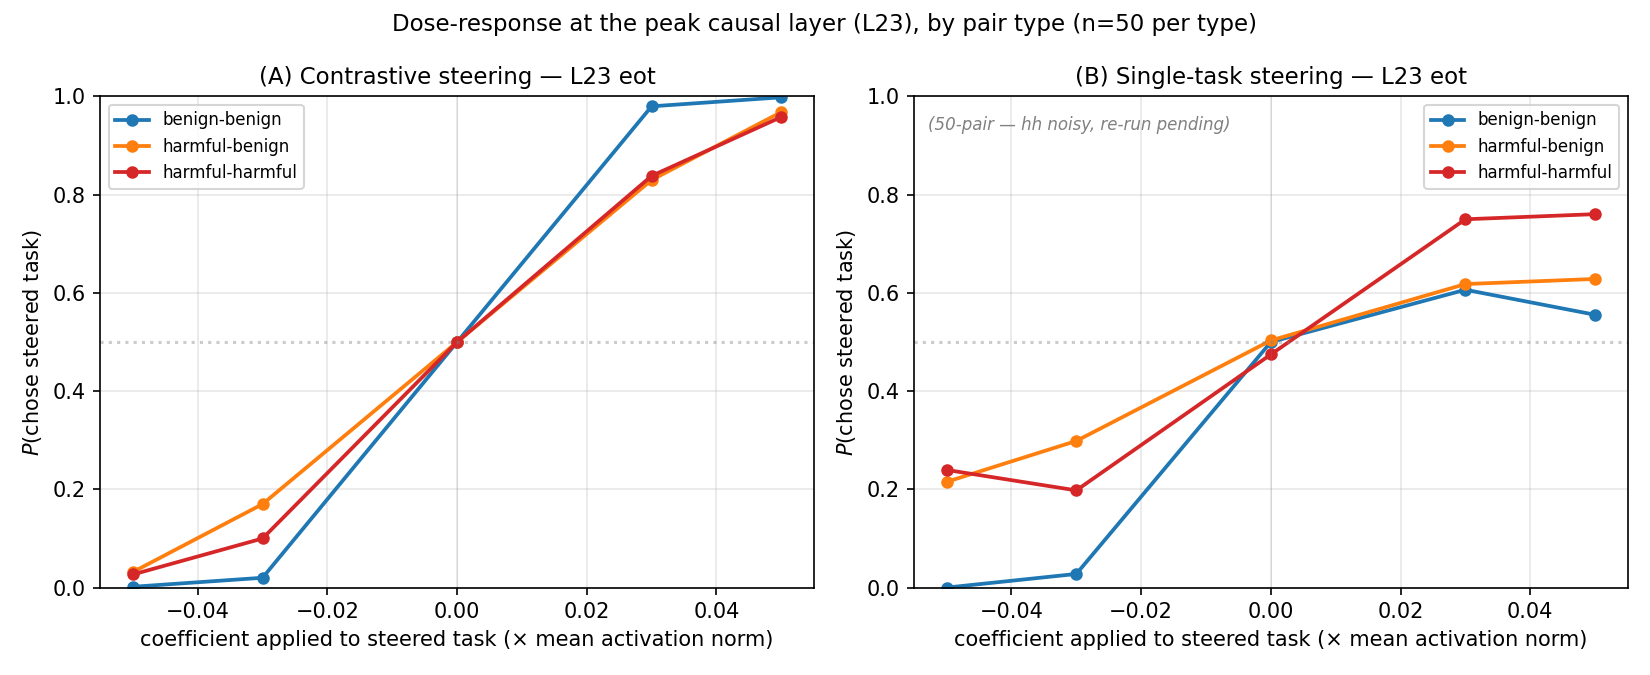
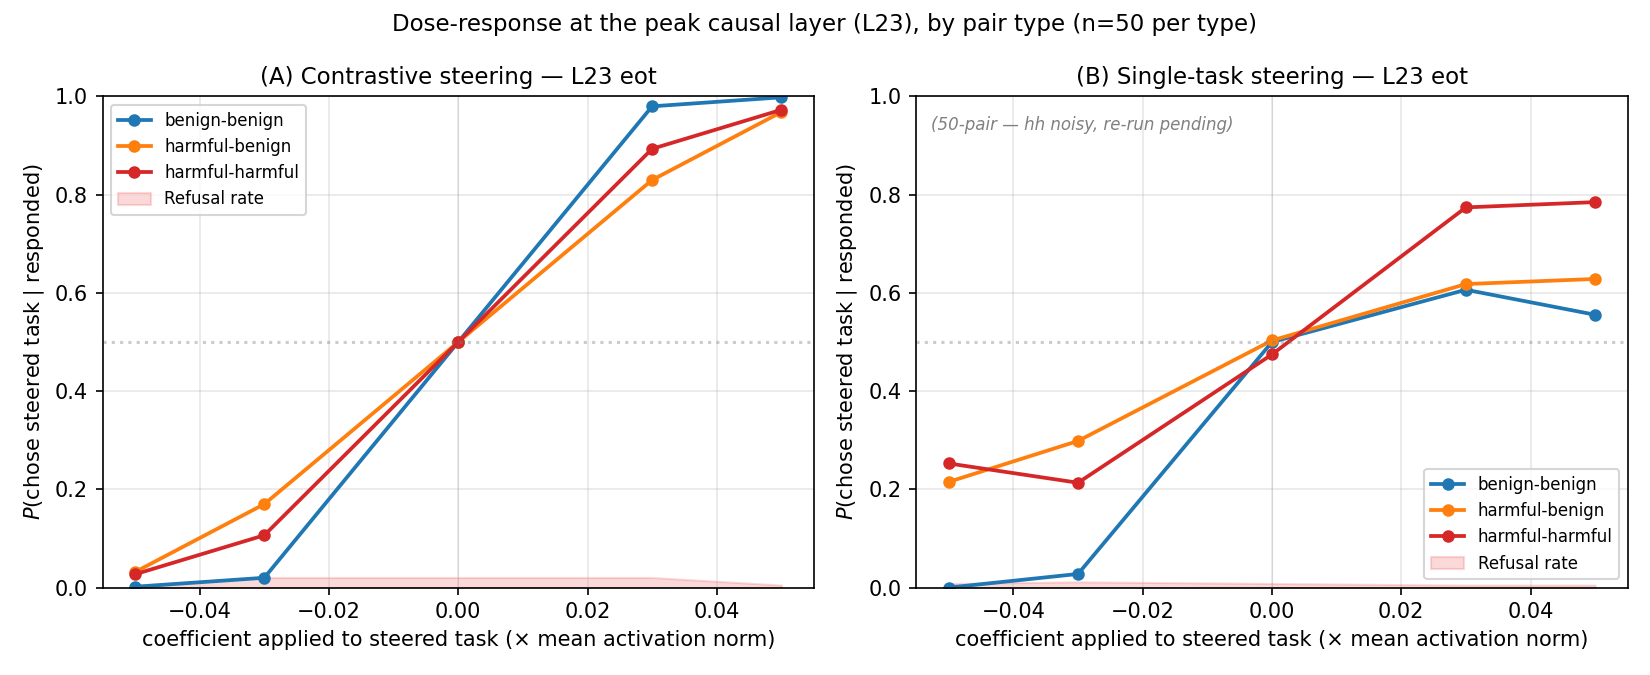
plot: normalize by responded + refusal band; doc: contrastive frame reference
Panel A and B now plot P(chose steered task | responded) and show a
pink shaded band at the bottom for the pooled refusal rate (matches
the prior poster plot convention). Normalization restores exact ±c
symmetry for the contrastive curves (the prior mild hh asymmetry was
exactly the 5-7% refusal rate at ±0.03).

Also added a long-form comment in src/steering/runner.py near
_effective_coef laying out the three canonical plotting frames for
contrastive steering (P(higher-utility), P(steered), and
P(steered | responded)) and how they relate. Reference for future
edits — the naming has tripped us up a few times.

diff --git a/src/steering/runner.py b/src/steering/runner.py
@@ -227,6 +227,64 @@ def _effective_coef(coef: float, ordering: int) -> float:
     return coef if ordering == 0 else -coef
 
 
+# -----------------------------------------------------------------------------
+# Contrastive steering: how signed_multiplier maps to each task, and what
+# "P(chose steered task)" means in downstream plots.
+#
+# REFERENCE NOTE — re-read this before writing a plot or interpreting a curve.
+# -----------------------------------------------------------------------------
+#
+# The differential (contrastive) runner applies opposite-sign steering to the two
+# task spans. With the default spans {first: 1, second: -1}, each span gets
+#
+#     effective = mean_norm * signed_multiplier * span_coef * ordering_sign
+#
+# where ordering_sign comes from _effective_coef above (it flips to -1 when
+# ordering=1). This means the SEMANTIC → PHYSICAL mapping is CONSTANT across
+# orderings. Worked out:
+#
+#                       |  task_a gets       |  task_b gets       |
+#   ordering=0 (a first)|  +signed_multiplier|  -signed_multiplier|
+#   ordering=1 (b first)|  +signed_multiplier|  -signed_multiplier|
+#
+# In our dataset convention (pairs oriented so task_a has higher Thurstonian
+# utility), the probe direction's "+" is always applied to the higher-utility
+# task, and "-" to the lower. Across orderings and across ±signed_multiplier,
+# both tasks receive both signs over the course of a sweep.
+#
+# Three equivalent but distinct plotting frames fall out of this setup:
+#
+# 1. y = P(chose higher-utility task) = P(a)
+#    x = signed_multiplier.
+#    Monotone dose-response. At +c, P(a) is driven up; at -c, P(a) is driven down.
+#    Emphasises alignment of the probe with the utility axis.
+#    (Used historically; see paper §2.3 aggregate claims.)
+#
+# 2. y = P(chose steered task)
+#    x = coefficient applied to the steered task (= ±signed_multiplier).
+#    Treat each trial as contributing TWO data points:
+#      - "task_a is the steered task", applied_c = +signed_multiplier,
+#        chose_steered = (choice_original == 'a')
+#      - "task_b is the steered task", applied_c = -signed_multiplier,
+#        chose_steered = (choice_original == 'b')
+#    Bucket by applied_c and average. Symmetric around (x=0, y=0.5) IF no refusals.
+#    Same swing magnitude as frame 1; reframes the dose-response as a property
+#    of the intervention rather than of a canonical task side.
+#    (Used by the harm-breakdown panel A; also panel B is in this frame natively,
+#    since single-task already touches one task at a time.)
+#
+# 3. y = P(chose steered task | responded)
+#    As frame 2 but divide by the non-refuse count. Restores exact ±c symmetry
+#    when the model refuses some trials; a refusal counts as "not chose steered"
+#    for BOTH viewpoints in frame 2, which otherwise breaks the 1-sum.
+#    Pair with a refusal-rate band so the dropped trials stay visible.
+#    (This is the current production frame for the harm-breakdown figure.)
+#
+# Don't mix frames inside a single figure, and don't claim "swing" without saying
+# which frame the swing is in (they agree numerically for 1 and 2 up to refusals).
+# -----------------------------------------------------------------------------
+
+
 def _norm_for_layer(mean_norm: float | dict[int, float], layer: int) -> float:
     if isinstance(mean_norm, dict):
         return mean_norm[layer]

diff --git a/scripts/paper/plot_layer_sweep_dose_response_150.py b/scripts/paper/plot_layer_sweep_dose_response_150.py
@@ -68,13 +68,21 @@ def main() -> None:
     # tasks receive signed steering in opposite directions. task_a gets +signed_multiplier,
     # task_b gets -signed_multiplier (consistent across orderings, by _effective_coef).
     contr_rows = [r for r in load_parsed(CK_HB / "contrastive_L23_150.parsed.jsonl") if r["layer"] == LAYER]
-    # contr_points[pt][applied_c] -> list of (chose_steered: bool)
-    contr_points: dict[str, dict[float, list[bool]]] = defaultdict(lambda: defaultdict(list))
+    # contr_points[pt][applied_c] -> list of (chose_steered: bool, responded: bool)
+    contr_points: dict[str, dict[float, list[tuple[bool, bool]]]] = defaultdict(lambda: defaultdict(list))
     for r in contr_rows:
         pt = pt_150[r["pair_id"]]
         mult = r["signed_multiplier"]
-        contr_points[pt][round(+mult, 4)].append(r["choice_original"] == "a")
-        contr_points[pt][round(-mult, 4)].append(r["choice_original"] == "b")
+        responded = r["choice_original"] in ("a", "b")
+        contr_points[pt][round(+mult, 4)].append((r["choice_original"] == "a", responded))
+        contr_points[pt][round(-mult, 4)].append((r["choice_original"] == "b", responded))
+    # Aggregate refusal rate across all pair types per applied_c (for the shaded band)
+    contr_refusal: dict[float, float] = {}
+    all_coefs = {c for d in contr_points.values() for c in d.keys()}
+    for c in all_coefs:
+        all_pts = [(chose, resp) for pt in contr_points for (chose, resp) in contr_points[pt].get(c, [])]
+        n = len(all_pts)
+        contr_refusal[c] = sum(not resp for _, resp in all_pts) / n if n else 0.0
 
     # --- Single-task: prefer new 150-pair data; fall back to parent 50-pair ---
     single_task_new = CK_HB / "single_task_L23_150.parsed.jsonl"
@@ -102,6 +110,14 @@ def main() -> None:
             continue
         applied = r["signed_multiplier"] * (1 if r["ordering"] == 0 else -1)
         uni_by[pt][round(applied, 4)].append(r)
+
+    # Aggregate refusal rate across all pair types per applied_c for panel B
+    uni_refusal: dict[float, float] = {}
+    all_uni_coefs = {c for d in uni_by.values() for c in d.keys()}
+    for c in all_uni_coefs:
+        all_rows = [r for pt in uni_by for r in uni_by[pt].get(c, [])]
+        n = len(all_rows)
+        uni_refusal[c] = sum(r["choice_original"] not in ("a", "b") for r in all_rows) / n if n else 0.0
 
     # --- Baselines: parent sweep dead-layer data, pair_type mapped via 50-pair origins ---
     parent_uni = (
@@ -133,47 +149,53 @@ def main() -> None:
     # --- Plot ---
     fig, (ax_c, ax_u) = plt.subplots(1, 2, figsize=(11, 4.5))
 
-    # Panel A: contrastive — P(chose steered task) vs c applied to that task
+    # Panel A: contrastive — P(chose steered | responded) vs c applied to that task.
+    # Refusal rate shown as pink shaded band at the bottom (aggregated across pair types).
     coefs_c = sorted({c for pt_dict in contr_points.values() for c in pt_dict.keys()})
     for pt in ("bb", "hb", "hh"):
         xs, ys = [], []
         for c in coefs_c:
             flags = contr_points[pt].get(c, [])
-            if not flags:
+            responded = [chose for chose, resp in flags if resp]
+            if not responded:
                 continue
             xs.append(c)
-            ys.append(sum(flags) / len(flags))
+            ys.append(sum(responded) / len(responded))
         xs.append(0.0)
         ys.append(contr_baseline[pt])
         ordered = sorted(zip(xs, ys))
         ax_c.plot([p[0] for p in ordered], [p[1] for p in ordered],
                   "o-", color=COLORS[pt], label=LABELS[pt],
                   markersize=5, linewidth=1.8)
+    refusal_xs = sorted(coefs_c)
+    refusal_ys = [contr_refusal.get(c, 0.0) for c in refusal_xs]
+    ax_c.fill_between(refusal_xs, 0, refusal_ys, alpha=0.20, color="#ef4444", label="Refusal rate")
     ax_c.axhline(0.5, color="gray", linestyle=":", alpha=0.4)
     ax_c.axvline(0, color="gray", linestyle="-", alpha=0.2, linewidth=0.5)
     ax_c.set_xlabel("coefficient applied to steered task (× mean activation norm)", fontsize=10)
-    ax_c.set_ylabel(r"$P(\mathrm{chose\ steered\ task})$", fontsize=10)
+    ax_c.set_ylabel(r"$P(\mathrm{chose\ steered\ task}\mid\mathrm{responded})$", fontsize=10)
     ax_c.set_title("(A) Contrastive steering — L23 eot", fontsize=11)
     ax_c.set_ylim(0, 1)
     ax_c.grid(True, alpha=0.3)
     ax_c.legend(fontsize=8)
 
-    # Panel B: single-task (aggregate over first/second)
+    # Panel B: single-task — P(chose steered | responded), refusal band at bottom.
     coefs_u = sorted({round(r["signed_multiplier"] * (1 if r["ordering"] == 0 else -1), 4) for r in uni_rows})
     for pt in ("bb", "hb", "hh"):
         xs, ys = [], []
         for c in coefs_u:
             rs = uni_by[pt][c]
-            if not rs:
+            responded = [r for r in rs if r["choice_original"] in ("a", "b")]
+            if not responded:
                 continue
             hits = sum(
                 r["choice_original"] == physical_in_span(
                     "first" if r["condition"] == "unilateral_first" else "second",
                     r["ordering"],
                 )
-                for r in rs
+                for r in responded
             )
-            ys.append(hits / len(rs))
+            ys.append(hits / len(responded))
             xs.append(c)
         xs.append(0.0)
         ys.append((dead_by_pt_first[pt] + dead_by_pt_second[pt]) / 2)
@@ -181,10 +203,13 @@ def main() -> None:
         ax_u.plot([p[0] for p in ordered], [p[1] for p in ordered],
                   "o-", color=COLORS[pt], label=LABELS[pt],
                   markersize=5, linewidth=1.8)
+    refusal_xs_u = sorted(uni_refusal.keys())
+    refusal_ys_u = [uni_refusal[c] for c in refusal_xs_u]
+    ax_u.fill_between(refusal_xs_u, 0, refusal_ys_u, alpha=0.20, color="#ef4444", label="Refusal rate")
     ax_u.axhline(0.5, color="gray", linestyle=":", alpha=0.4)
     ax_u.axvline(0, color="gray", linestyle="-", alpha=0.2, linewidth=0.5)
     ax_u.set_xlabel("coefficient applied to steered task (× mean activation norm)", fontsize=10)
-    ax_u.set_ylabel(r"$P(\mathrm{chose\ steered\ task})$", fontsize=10)
+    ax_u.set_ylabel(r"$P(\mathrm{chose\ steered\ task}\mid\mathrm{responded})$", fontsize=10)
     ax_u.set_title(f"(B) Single-task steering — L23 eot", fontsize=11)
     if uni_label_suffix:
         ax_u.text(0.02, 0.96, uni_label_suffix.strip(), transform=ax_u.transAxes,